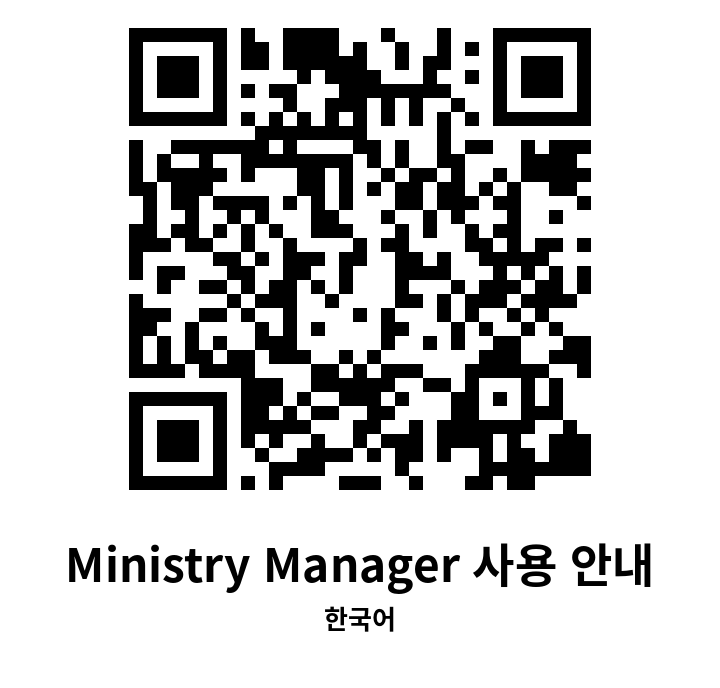
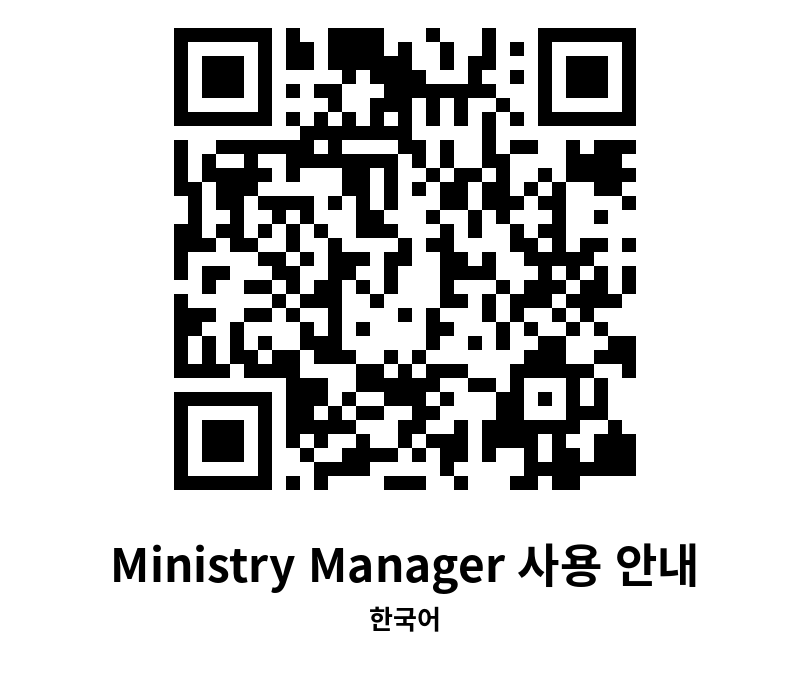
사용 안내: 프로젝터용 「Stuck? · Umekwama?」 QR 한 장 · QR 그림 글자 잘림 고침

Changed region(s): [[0.5194, 0.0305, 0.825, 0.7326], [0.1528, 0.0305, 0.4889, 0.7326], [0.0917, 0.7936, 0.9167, 0.9157]]

diff --git a/help/qr.html b/help/qr.html
@@ -1,0 +1,42 @@
+<!doctype html>
+<html lang="en">
+<head>
+<meta charset="utf-8">
+<meta name="viewport" content="width=device-width, initial-scale=1">
+<meta name="robots" content="noindex">
+<title>Stuck? Scan</title>
+<link rel="preconnect" href="https://fonts.googleapis.com">
+<link rel="preconnect" href="https://fonts.gstatic.com" crossorigin>
+<link rel="stylesheet" href="https://fonts.googleapis.com/css2?family=Noto+Sans:wght@400;700&family=Noto+Serif:wght@700&display=swap">
+<style>
+/* 2026-10-23 BMTC 최종 테스트·시험 때 프로젝터에 띄우는 한 장 — 안내 페이지(help/) QR 둘 */
+:root{--ground:#FFFFFF;--ink:#16201E;--soft:#4F5B59;--accent:#1F6F5C;--line:#DBE2E0}
+@media (prefers-color-scheme:dark){:root:not([data-theme="light"]){--ground:#FFFFFF;--ink:#16201E;--soft:#4F5B59}}
+:root[data-theme="dark"]{--ground:#FFFFFF;--ink:#16201E}
+*{box-sizing:border-box}
+body{margin:0;background:var(--ground);color:var(--ink);font-family:"Noto Sans",system-ui,sans-serif;min-height:100vh;display:flex;flex-direction:column;align-items:center;justify-content:center;padding:16px}
+h1{font-family:"Noto Serif",Georgia,serif;font-size:clamp(28px,5vw,60px);margin:0 0 6px;text-align:center}
+.sub{font-size:clamp(16px,2.4vw,28px);color:var(--soft);margin:0 0 20px;text-align:center}
+.row{display:flex;gap:clamp(16px,5vw,80px);flex-wrap:wrap;justify-content:center}
+figure{margin:0;text-align:center}
+figure img{width:min(40vw,44vh,420px);max-width:100%;height:auto;display:block;border:1px solid var(--line);border-radius:12px}
+.steps{margin:22px 0 0;font-size:clamp(16px,2.4vw,30px);line-height:1.5;max-width:1100px}
+.steps b{color:var(--accent)}
+.url{margin-top:14px;font-size:clamp(14px,1.8vw,22px);color:var(--soft);word-break:break-all;text-align:center}
+</style>
+</head>
+<body>
+  <h1>Stuck? · Umekwama?</h1>
+  <p class="sub">Leave your screen as it is.</p>
+  <div class="row">
+    <figure><img src="qr-en.png" alt="QR — guide in English"></figure>
+    <figure><img src="qr-sw.png" alt="QR — guide in Kiswahili"></figure>
+  </div>
+  <div class="steps">
+    <div><b>1</b> Your paper card for that step — on your table</div>
+    <div><b>2</b> Scan → <i>One seminar, start to finish</i> · <i>Common problems</i></div>
+    <div><b>3</b> Ask the person next to you — they point, you tap</div>
+  </div>
+  <div class="url">claude-artifacts-livid.vercel.app/help/</div>
+</body>
+</html>
